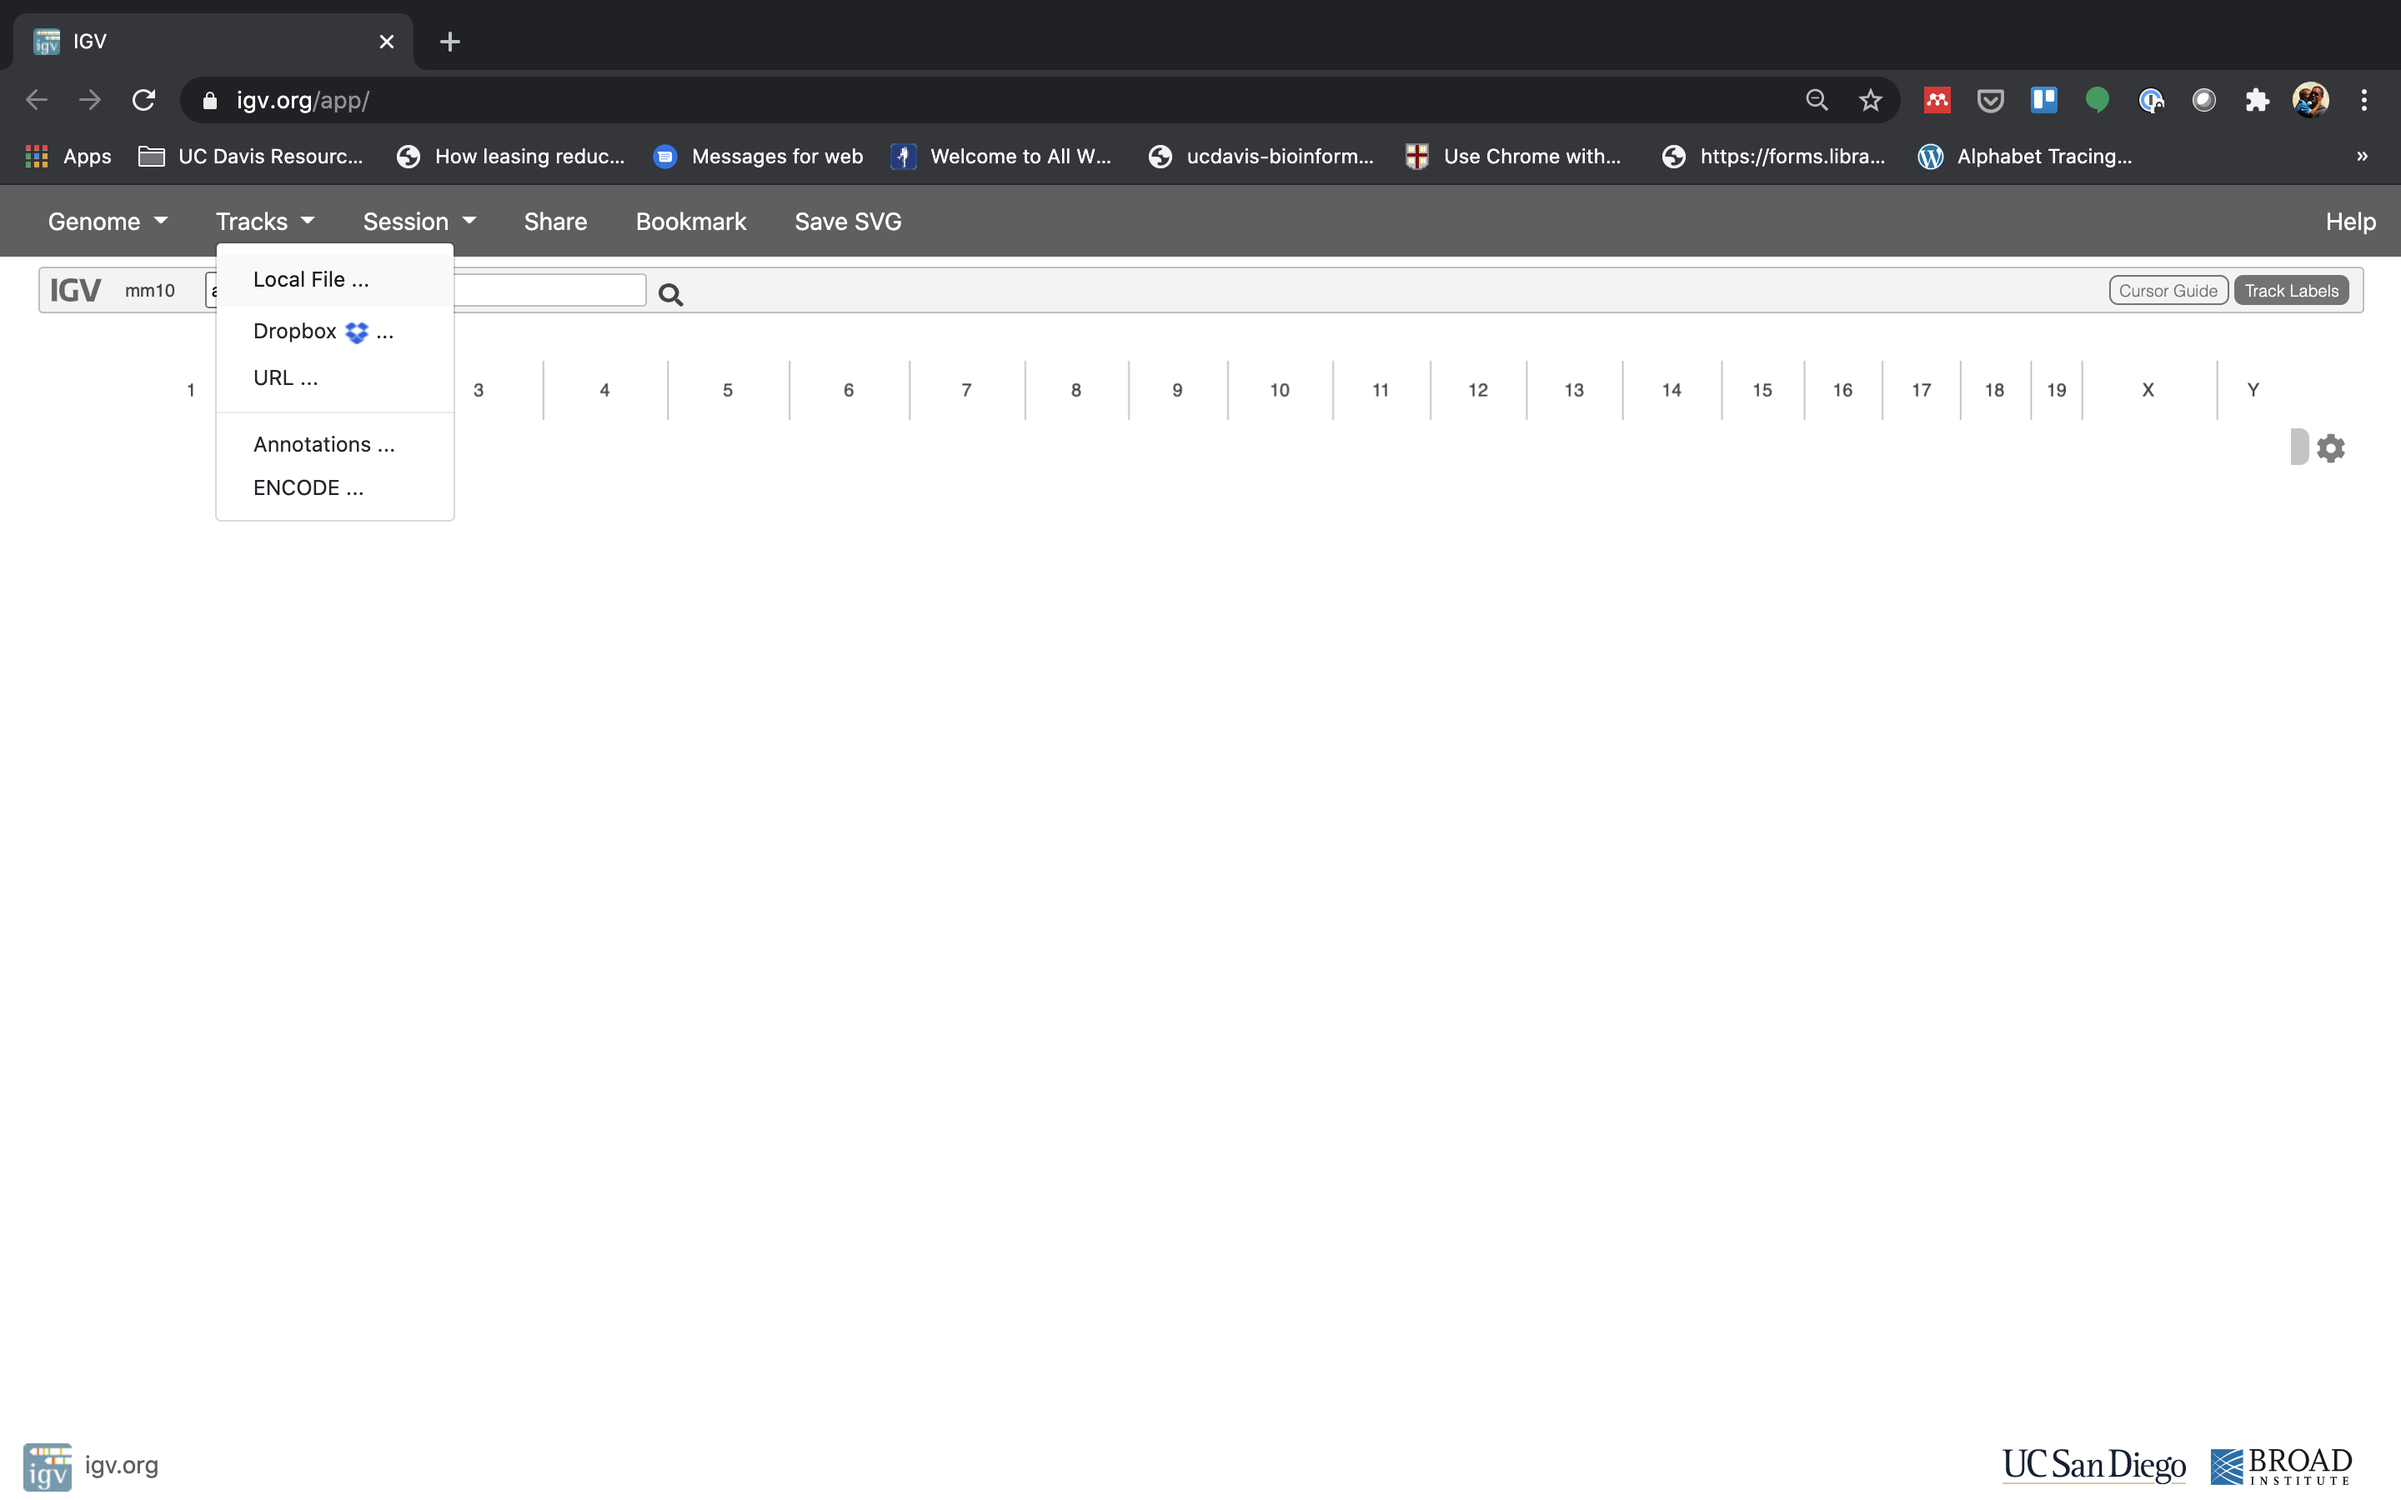
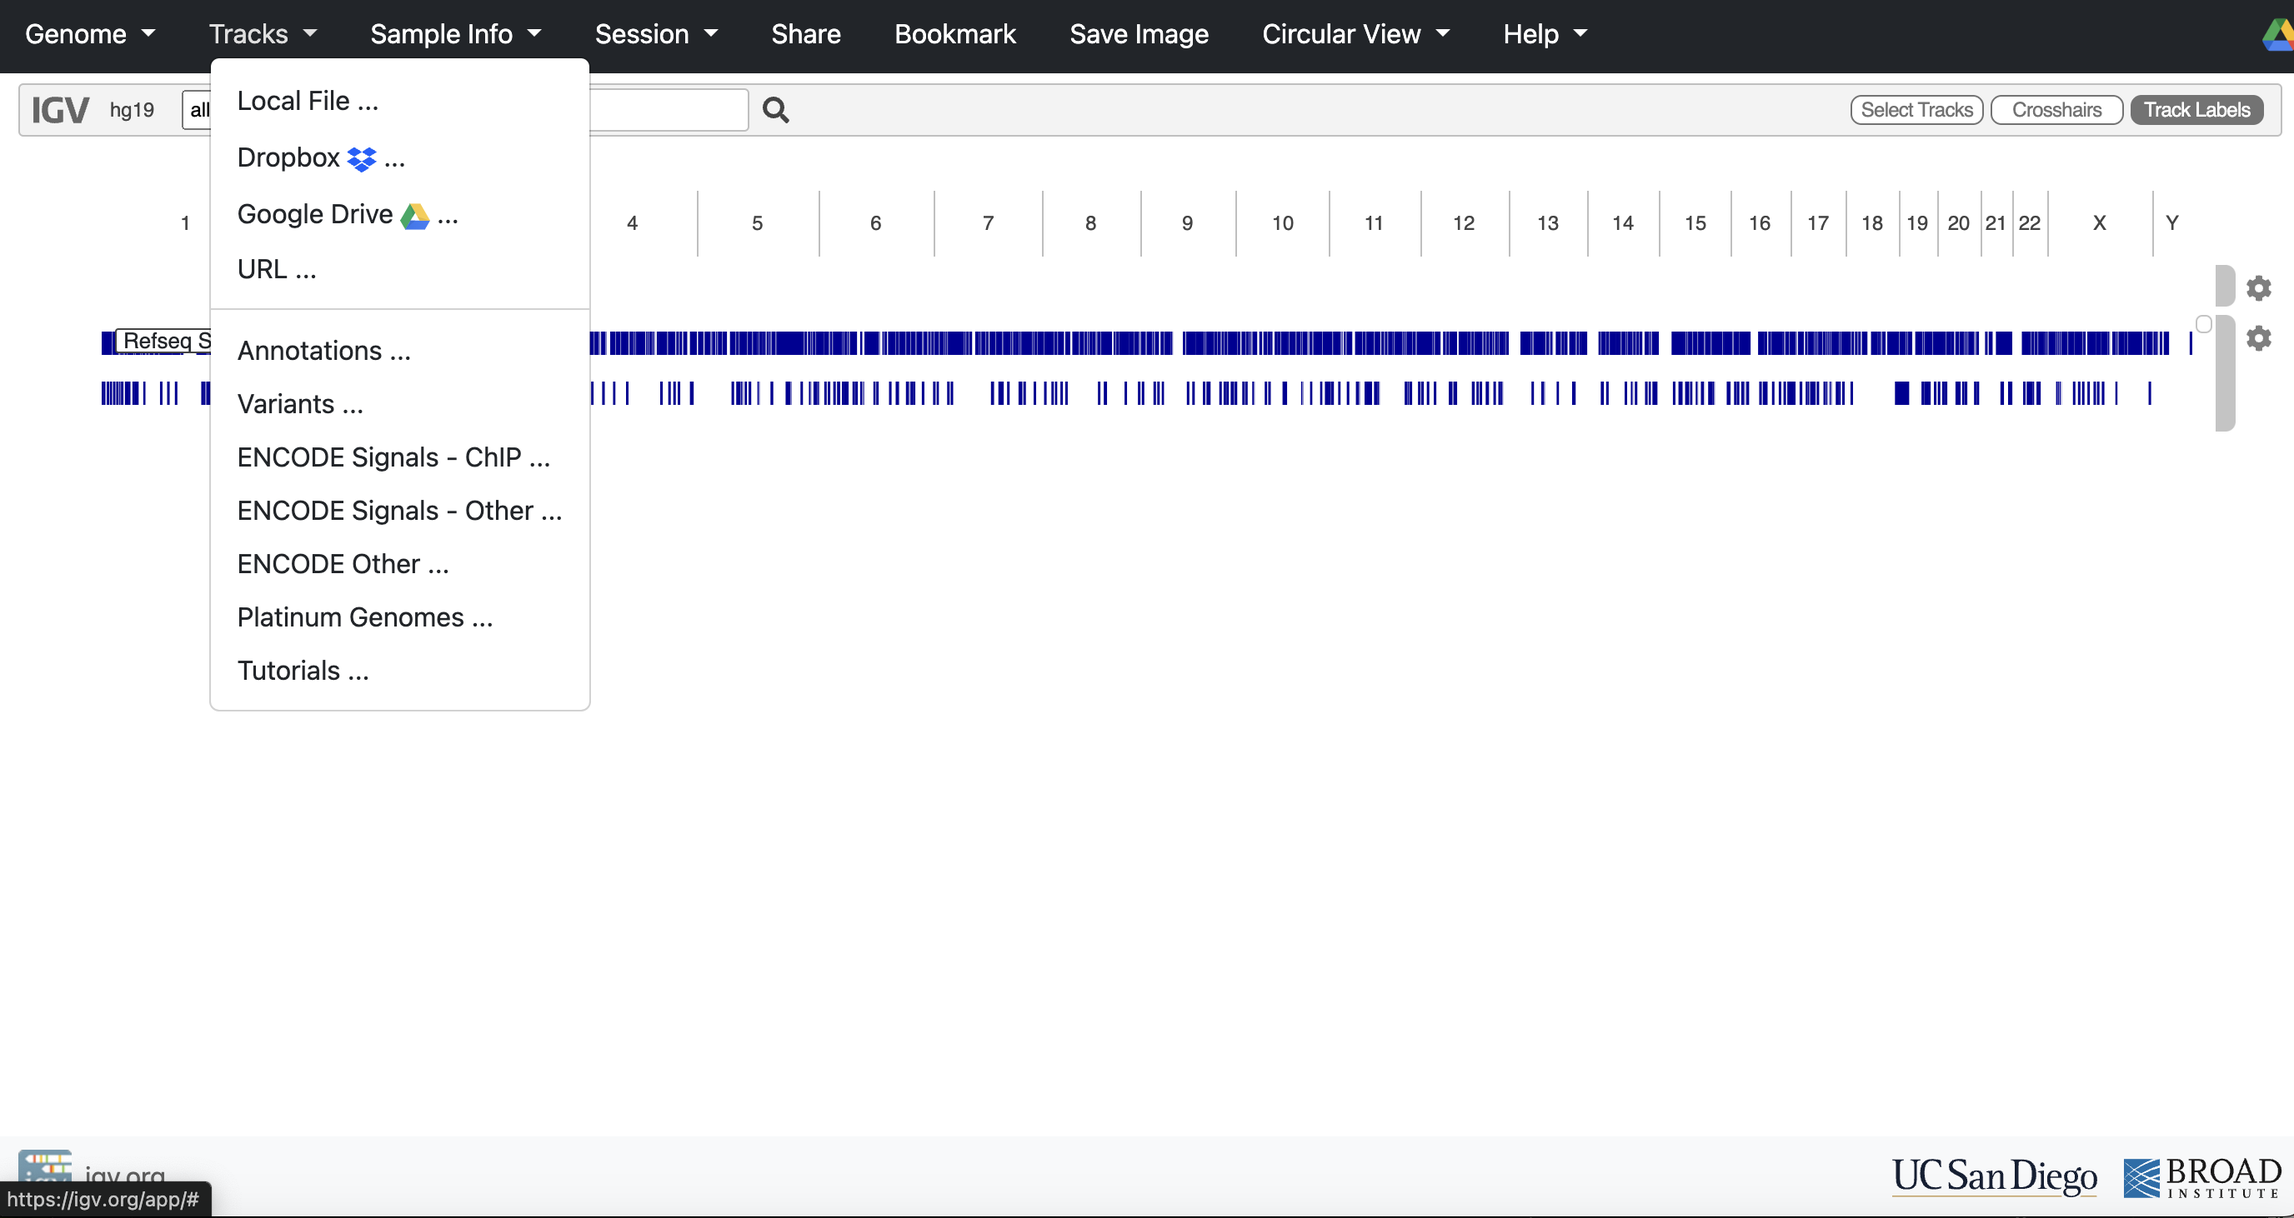
edit Igv

diff --git a/data_reduction/02-alignment.md b/data_reduction/02-alignment.md
@@ -270,7 +270,7 @@ Here you can download IGV for your respective platform (Window, Mac OSX, Linux),
 
 <img src="alignment_figures/index_igv3.png" alt="index_igv3" width="80%" style="border:5px solid #ADD8E6;"/>
 
-1. The first thing we want to do is load the Mouse genome. Click on "Genomes" in the menu and choose "Mouse (GRCm39/mm39)".
+1. The first thing we want to do is load the Human genome. Click on "Genomes" in the menu and choose "Human (GRCh38/hg19)".
 
 <img src="alignment_figures/index_igv4.png" alt="index_igv4" width="80%" style="border:5px solid #ADD8E6;"/>
 
